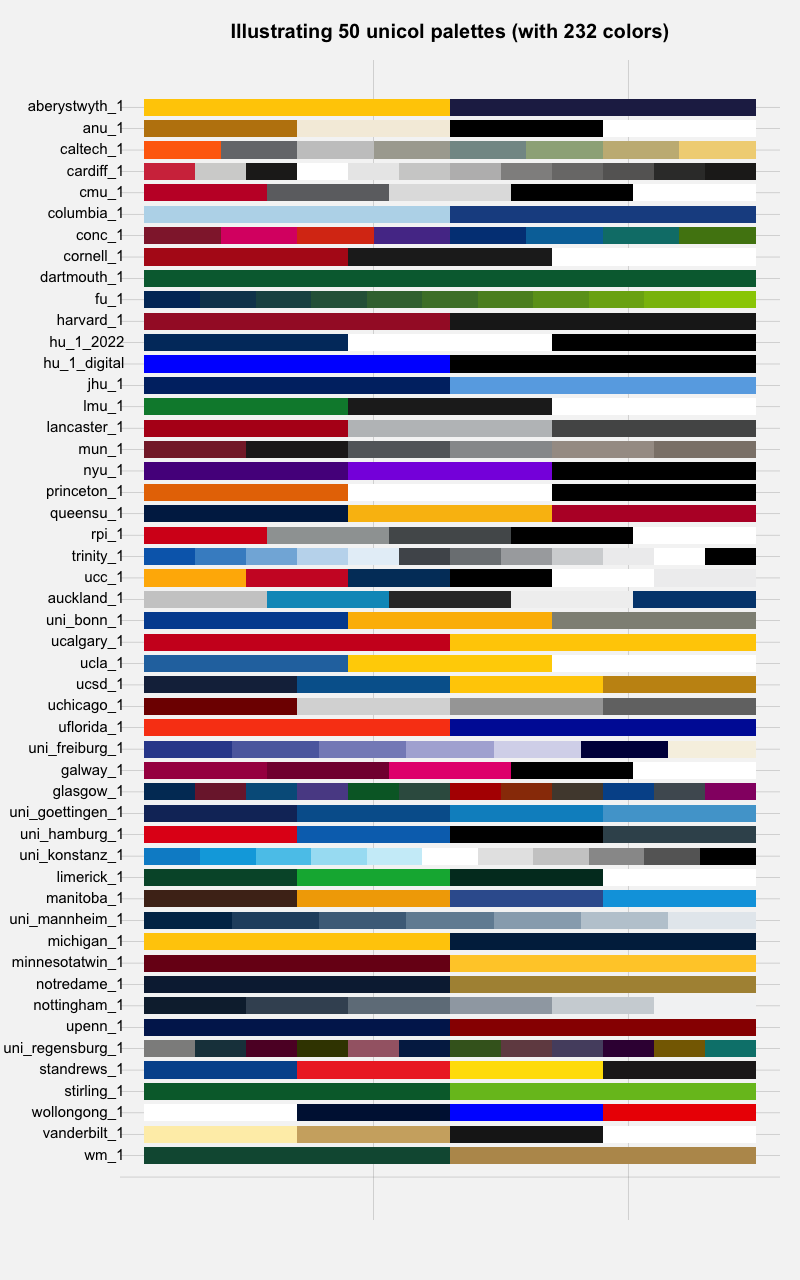
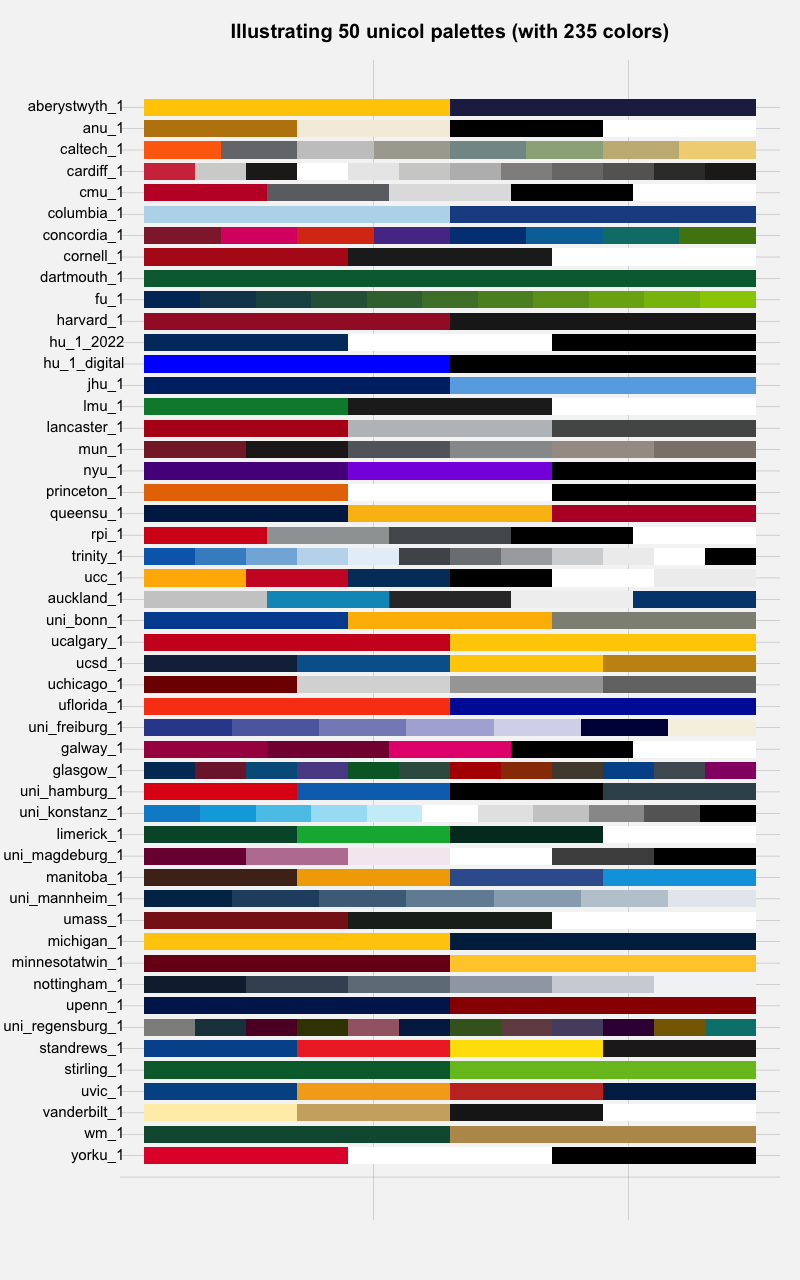
update README

Changed region(s): [[0.0, 0.5, 0.9688, 0.9062], [0.0625, 0.1562, 0.125, 0.1875]]

diff --git a/README.md b/README.md
@@ -21,7 +21,7 @@ status](https://www.r-pkg.org/badges/version/unicol)](https://CRAN.R-project.org
 <!-- [![DOI](https://zenodo.org/badge/DOI/10.5281/zenodo.8252106.svg)](https://doi.org/10.5281/zenodo.8252106) -->
 <!-- ALL badges end. -->
 
-# unicol 0.2.0.9004 <img src = "man/figures/logo.png" align = "right" alt = "unicol::" width = "160px" alt="" />
+# unicol 0.2.0.9005 <img src = "man/figures/logo.png" align = "right" alt = "unicol::" width = "160px" alt="" />
 
 <!-- unicol pkg logo and link: -->
 <!-- <a href = "https://CRAN.R-project.org/package=unicol"> -->
@@ -85,8 +85,8 @@ library(unikn)   # for color functions
 
 ## Contents
 
-The **unicol** package currently provides **241 color palettes** from
-**103 institutions**.
+The **unicol** package currently provides **245 color palettes** from
+**105 institutions**.
 
 <!-- **Table\ 1** provides an overview of all color palettes:  -->
 
@@ -99,18 +99,18 @@ an overview of included color palettes and institutions.)
 
 ### Examples of color palettes
 
-<!-- The **unicol** package currently contains **241\ color palettes** from **103\ institutions**.  -->
+<!-- The **unicol** package currently contains **245\ color palettes** from **105\ institutions**.  -->
 <!-- Example 1: Random pals (from vignette color_pals.Rmd): -->
 <!-- Show as a table: -->
 <!-- Show as a figure: -->
 
-**Figure 1** illustrates 50 random color palettes (with 232 colors):
+**Figure 1** illustrates 50 random color palettes (with 235 colors):
 
 <div class="figure" style="text-align: center">
 
-<img src="man/figures/README-unicol-pals-example-1-figure-1.png" alt="Figure 1: A sample of 50 unicol palettes (containing 232 colors)." width="680px" />
+<img src="man/figures/README-unicol-pals-example-1-figure-1.png" alt="Figure 1: A sample of 50 unicol palettes (containing 235 colors)." width="680px" />
 <p class="caption">
-Figure 1: A sample of 50 unicol palettes (containing 232 colors).
+Figure 1: A sample of 50 unicol palettes (containing 235 colors).
 </p>
 
 </div>
@@ -325,6 +325,6 @@ creators.
 
 <!-- Footer: -->
 
-\[File `README.Rmd` updated on 2023-09-25.\]
+\[File `README.Rmd` updated on 2023-10-06.\]
 
 <!-- eof. -->
